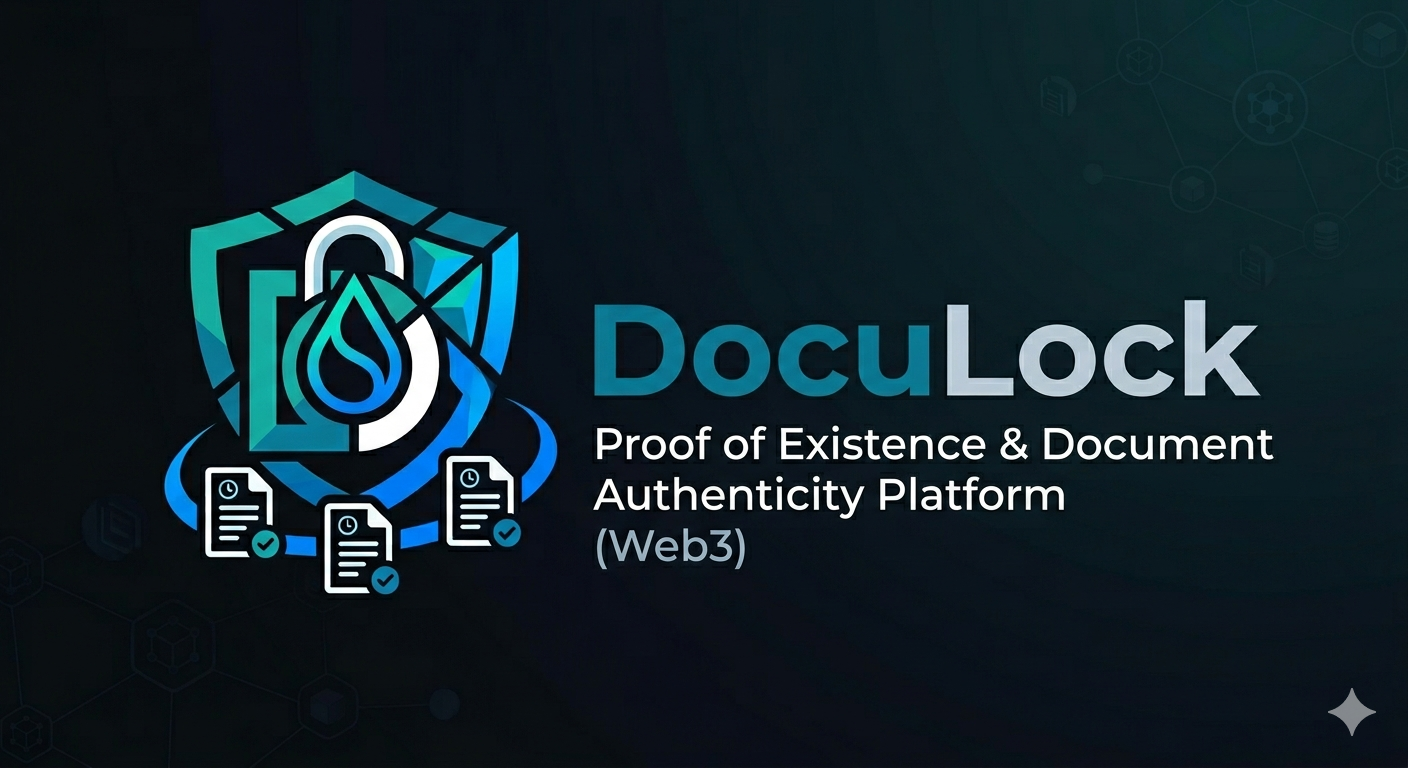
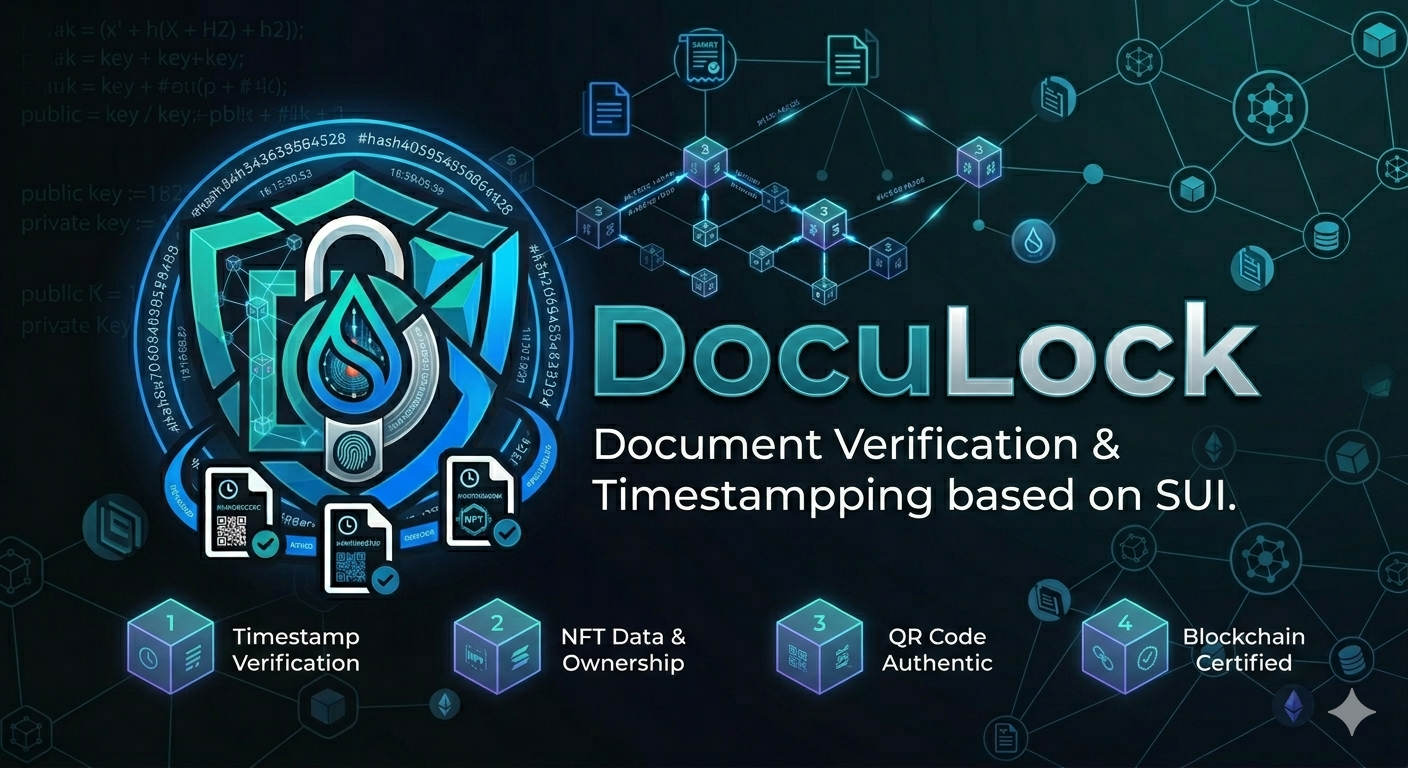
Add caching and timestamp fixes for document events
Introduce an in-memory cache for document events in lib/doculock (30s TTL) and add invalidateDocumentEventsCache() so uploads can refresh analytics. getDocumentEvents now prefers event.timestampMs (skips events without it), converts event hashes reliably, filters by creator, logs caching and filtering steps, and caches results.

Update components to invalidate the events cache after successful uploads (BatchUploader, FileUploader). Normalize timestamp types in FileVerifier (parse string timestamps to numbers). Improve NetworkCursor canvas typing and consistently use a non-null canvas/context reference for drawing. NetworkStats now waits for loaded stats before rendering. Analytics route logs invalid timestamp events. Also includes an updated banner image asset.

diff --git a/app/components/NetworkCursor.tsx b/app/components/NetworkCursor.tsx
@@ -52,6 +52,10 @@ export function NetworkCursor() {
     const ctx = canvas.getContext("2d", { alpha: true });
     if (!ctx) return;
 
+    // Re-declare with non-null assertion since we've already checked
+    const canvasEl: HTMLCanvasElement = canvas;
+    const ctxEl: CanvasRenderingContext2D = ctx;
+
     // Check for reduced motion preference
     const prefersReducedMotion = window.matchMedia('(prefers-reduced-motion: reduce)').matches;
     if (prefersReducedMotion) {
@@ -77,8 +81,8 @@ export function NetworkCursor() {
     function resize() {
       S.w = window.innerWidth;
       S.h = window.innerHeight;
-      canvas.width = S.w;
-      canvas.height = S.h;
+      canvasEl.width = S.w;
+      canvasEl.height = S.h;
     }
 
     function initParticles() {
@@ -206,24 +210,24 @@ export function NetworkCursor() {
     }
 
     function draw() {
-      ctx.clearRect(0, 0, S.w, S.h);
+      ctxEl.clearRect(0, 0, S.w, S.h);
 
       // Draw trail
       S.trail.forEach((t, i) => {
         const next = S.trail[i + 1];
         if (next) {
-          ctx.beginPath();
-          ctx.moveTo(t.x, t.y);
-          ctx.lineTo(next.x, next.y);
-          ctx.strokeStyle = `rgba(0, 192, 255, ${t.alpha * 0.3})`;
-          ctx.lineWidth = 2;
-          ctx.stroke();
+          ctxEl.beginPath();
+          ctxEl.moveTo(t.x, t.y);
+          ctxEl.lineTo(next.x, next.y);
+          ctxEl.strokeStyle = `rgba(0, 192, 255, ${t.alpha * 0.3})`;
+          ctxEl.lineWidth = 2;
+          ctxEl.stroke();
         }
 
-        ctx.beginPath();
-        ctx.arc(t.x, t.y, 2, 0, Math.PI * 2);
-        ctx.fillStyle = `rgba(0, 192, 255, ${t.alpha * 0.5})`;
-        ctx.fill();
+        ctxEl.beginPath();
+        ctxEl.arc(t.x, t.y, 2, 0, Math.PI * 2);
+        ctxEl.fillStyle = `rgba(0, 192, 255, ${t.alpha * 0.5})`;
+        ctxEl.fill();
       });
 
       // Draw connections
@@ -231,22 +235,22 @@ export function NetworkCursor() {
         const a = S.nodes[conn.a];
         const b = S.nodes[conn.b];
 
-        const gradient = ctx.createLinearGradient(a.x, a.y, b.x, b.y);
+        const gradient = ctxEl.createLinearGradient(a.x, a.y, b.x, b.y);
         gradient.addColorStop(0, `rgba(0, 192, 255, ${conn.alpha})`);
         gradient.addColorStop(1, `rgba(188, 140, 255, ${conn.alpha})`);
 
-        ctx.beginPath();
-        ctx.moveTo(a.x, a.y);
-        ctx.lineTo(b.x, b.y);
-        ctx.strokeStyle = gradient;
-        ctx.lineWidth = 1;
-        ctx.stroke();
+        ctxEl.beginPath();
+        ctxEl.moveTo(a.x, a.y);
+        ctxEl.lineTo(b.x, b.y);
+        ctxEl.strokeStyle = gradient;
+        ctxEl.lineWidth = 1;
+        ctxEl.stroke();
       });
 
       // Draw nodes
       S.nodes.forEach(node => {
         const glowSize = node.type === 'cursor' ? node.size * 3 : node.size * 2;
-        const gradient = ctx.createRadialGradient(
+        const gradient = ctxEl.createRadialGradient(
           node.x, node.y, 0,
           node.x, node.y, glowSize
         );
@@ -254,21 +258,21 @@ export function NetworkCursor() {
         gradient.addColorStop(0, `rgba(${color}, ${node.alpha * 0.5})`);
         gradient.addColorStop(1, `rgba(${color}, 0)`);
 
-        ctx.beginPath();
-        ctx.arc(node.x, node.y, glowSize, 0, Math.PI * 2);
-        ctx.fillStyle = gradient;
-        ctx.fill();
+        ctxEl.beginPath();
+        ctxEl.arc(node.x, node.y, glowSize, 0, Math.PI * 2);
+        ctxEl.fillStyle = gradient;
+        ctxEl.fill();
 
-        ctx.beginPath();
-        ctx.arc(node.x, node.y, node.size, 0, Math.PI * 2);
-        ctx.fillStyle = node.type === 'cursor'
+        ctxEl.beginPath();
+        ctxEl.arc(node.x, node.y, node.size, 0, Math.PI * 2);
+        ctxEl.fillStyle = node.type === 'cursor'
           ? `rgba(188, 140, 255, ${node.alpha})`
           : `rgba(0, 192, 255, ${node.alpha})`;
-        ctx.fill();
+        ctxEl.fill();
       });
 
       // Draw cursor glow
-      const cursorGradient = ctx.createRadialGradient(
+      const cursorGradient = ctxEl.createRadialGradient(
         S.mx, S.my, 0,
         S.mx, S.my, CONFIG.cursorRadius
       );
@@ -276,8 +280,8 @@ export function NetworkCursor() {
       cursorGradient.addColorStop(0.5, 'rgba(188, 140, 255, 0.05)');
       cursorGradient.addColorStop(1, 'rgba(0, 0, 0, 0)');
 
-      ctx.fillStyle = cursorGradient;
-      ctx.fillRect(0, 0, S.w, S.h);
+      ctxEl.fillStyle = cursorGradient;
+      ctxEl.fillRect(0, 0, S.w, S.h);
     }
 
     // Throttled animation at 30fps

diff --git a/lib/doculock.ts b/lib/doculock.ts
@@ -7,6 +7,22 @@ import { SuiClient } from '@mysten/sui/client';
 import { doculockConfig, getRegistryId } from './config';
 import { bytesToHex } from './crypto';
 
+// Simple in-memory cache for document events to ensure consistency
+// Cache expires after 30 seconds
+let cachedEvents: DocumentStoredEvent[] | null = null;
+let cacheTimestamp: number = 0;
+const CACHE_TTL = 30000; // 30 seconds
+
+/**
+ * Invalidate the document events cache
+ * Call this after uploading a new document to ensure fresh data
+ */
+export function invalidateDocumentEventsCache(): void {
+  console.log('[getDocumentEvents] Cache invalidated');
+  cachedEvents = null;
+  cacheTimestamp = 0;
+}
+
 export function createSuiClient(): SuiClient {
   return new SuiClient({
     url: doculockConfig.rpcUrl,
@@ -483,6 +499,18 @@ export async function getDocumentEvents(
   creatorAddress?: string,
 ): Promise<DocumentStoredEvent[]> {
   try {
+    const now = Date.now();
+    const useCache = cachedEvents !== null && (now - cacheTimestamp) < CACHE_TTL;
+
+    if (useCache) {
+      console.log('[getDocumentEvents] Using cached events, count:', cachedEvents!.length);
+      const result = creatorAddress
+        ? cachedEvents!.filter(event => event.creator === creatorAddress)
+        : cachedEvents!;
+      console.log('[getDocumentEvents] Filtered events count:', result.length);
+      return result;
+    }
+
     console.log('[getDocumentEvents] Querying events with packageId:', doculockConfig.packageId);
     const events = await suiClient.queryEvents({
       query: {
@@ -500,15 +528,20 @@ export async function getDocumentEvents(
         })
       : events.data;
 
-    return filteredEvents.map(event => {
+    const result: DocumentStoredEvent[] = [];
+
+    for (const event of filteredEvents) {
       const parsed = event.parsedJson as any;
       let eventHash = parsed.document_hash;
 
       // IMPORTANT: Use transaction timestamp (timestampMs) instead of event timestamp
       // because SUI clock.timestamp_ms() is not Unix epoch, it's SUI internal timestamp
       // timestampMs is the actual Unix timestamp when the transaction was executed
-      const timestamp = event.timestampMs || parsed.timestamp;
-      console.log('[getDocumentEvents] Using timestampMs:', timestamp, 'for event:', parsed.file_name);
+      const timestamp = event.timestampMs;
+      if (!timestamp) {
+        console.log('[getDocumentEvents] WARNING: Skipping event without timestampMs:', parsed.file_name, 'parsed.timestamp:', parsed.timestamp);
+        continue;
+      }
 
       // Convert array of bytes to hex string if needed
       if (Array.isArray(eventHash)) {
@@ -517,15 +550,27 @@ export async function getDocumentEvents(
         eventHash = String(eventHash);
       }
 
-      return {
+      result.push({
         document_hash: eventHash,
         creator: parsed.creator,
         timestamp: timestamp, // Use actual Unix timestamp from timestampMs
         file_name: parsed.file_name,
         file_size: Number(parsed.file_size) || 0,
         mime_type: parsed.mime_type,
-      };
-    });
+      });
+    }
+
+    // Cache the result
+    cachedEvents = result;
+    cacheTimestamp = now;
+    console.log('[getDocumentEvents] Cached events, count:', result.length);
+
+    const finalResult = creatorAddress
+      ? result.filter(event => event.creator === creatorAddress)
+      : result;
+
+    console.log('[getDocumentEvents] Final result count:', finalResult.length);
+    return finalResult;
   } catch (error) {
     console.error('Error fetching document events:', error);
     return [];

diff --git a/app/components/FileUploader.tsx b/app/components/FileUploader.tsx
@@ -8,7 +8,7 @@ import { QRModal } from './QRModal';
 import { FraudSimulation } from './FraudSimulation';
 import { calculateSHA256, hexToBytes } from '@/lib/crypto';
 import { formatFileSize, getFileIcon } from '@/lib/file';
-import { createStoreDocumentTx, createBatchStoreDocumentsTx, DocumentInfo } from '@/lib/doculock';
+import { createStoreDocumentTx, createBatchStoreDocumentsTx, DocumentInfo, invalidateDocumentEventsCache } from '@/lib/doculock';
 import { doculockConfig } from '@/lib/config';
 
 export interface FileUploaderHandle {
@@ -135,6 +135,8 @@ export function FileUploader({ onDocumentStored }: FileUploaderProps) {
             }
 
             setSuccess(true);
+            // Invalidate cache to refresh analytics data
+            invalidateDocumentEventsCache();
             if (onDocumentStored) {
               onDocumentStored(hash);
             }
@@ -306,6 +308,9 @@ export function FileUploader({ onDocumentStored }: FileUploaderProps) {
 
               setBatchResults(resultsArray);
             }
+
+            // Invalidate cache to refresh analytics data
+            invalidateDocumentEventsCache();
 
             setSuccess(true);
           },

diff --git a/app/components/BatchUploader.tsx b/app/components/BatchUploader.tsx
@@ -4,7 +4,7 @@ import { useState, useRef } from 'react';
 import { useSignAndExecuteTransaction, useSuiClient } from '@mysten/dapp-kit';
 import { calculateSHA256, hexToBytes } from '@/lib/crypto';
 import { formatFileSize, getFileIcon } from '@/lib/file';
-import { createBatchStoreDocumentsTx, DocumentInfo } from '@/lib/doculock';
+import { createBatchStoreDocumentsTx, DocumentInfo, invalidateDocumentEventsCache } from '@/lib/doculock';
 import { doculockConfig } from '@/lib/config';
 
 interface DocumentWithHash {
@@ -193,6 +193,9 @@ export function BatchUploader() {
 
               setResults(resultsArray);
             }
+
+            // Invalidate cache to refresh analytics data
+            invalidateDocumentEventsCache();
 
             setSuccess(true);
           },

diff --git a/app/api/analytics/documents/route.ts b/app/api/analytics/documents/route.ts
@@ -32,7 +32,11 @@ export async function GET(request: NextRequest) {
       if (typeof timestamp === 'string') {
         timestamp = parseInt(timestamp, 10);
       }
-      return timestamp && !isNaN(timestamp) && timestamp > 0;
+      const isValid = timestamp && !isNaN(timestamp) && timestamp > 0;
+      if (!isValid) {
+        console.log('[Analytics Documents] Filtered out invalid timestamp event:', event.file_name, 'timestamp:', timestamp);
+      }
+      return isValid;
     });
 
     const sortedEvents = [...validEvents].sort((a, b) => {

diff --git a/app/components/FileVerifier.tsx b/app/components/FileVerifier.tsx
@@ -118,7 +118,10 @@ export function FileVerifier({ initialHash }: FileVerifierProps) {
                 file_name: existingFile.file_name,
                 file_size: existingFile.file_size,
                 mime_type: existingFile.mime_type,
-                timestamp: existingFile.timestamp,
+                timestamp:
+  typeof existingFile.timestamp === 'string'
+    ? Date.parse(existingFile.timestamp)
+    : existingFile.timestamp,
                 document_hash: existingFile.document_hash,
               },
             });

diff --git a/app/components/analytics/NetworkStats.tsx b/app/components/analytics/NetworkStats.tsx
@@ -26,7 +26,12 @@ const statColors = {
 };
 
 function NetworkStatsComponent() {
-  const { stats } = useAnalyticsData();
+  const { stats, loading } = useAnalyticsData();
+
+  // Don't render until data is loaded
+  if (loading || !stats) {
+    return null;
+  }
 
   const formatBytes = (bytes: number) => {
     if (!bytes || bytes === 0 || isNaN(bytes)) return { value: '0', unit: 'Bytes' };
